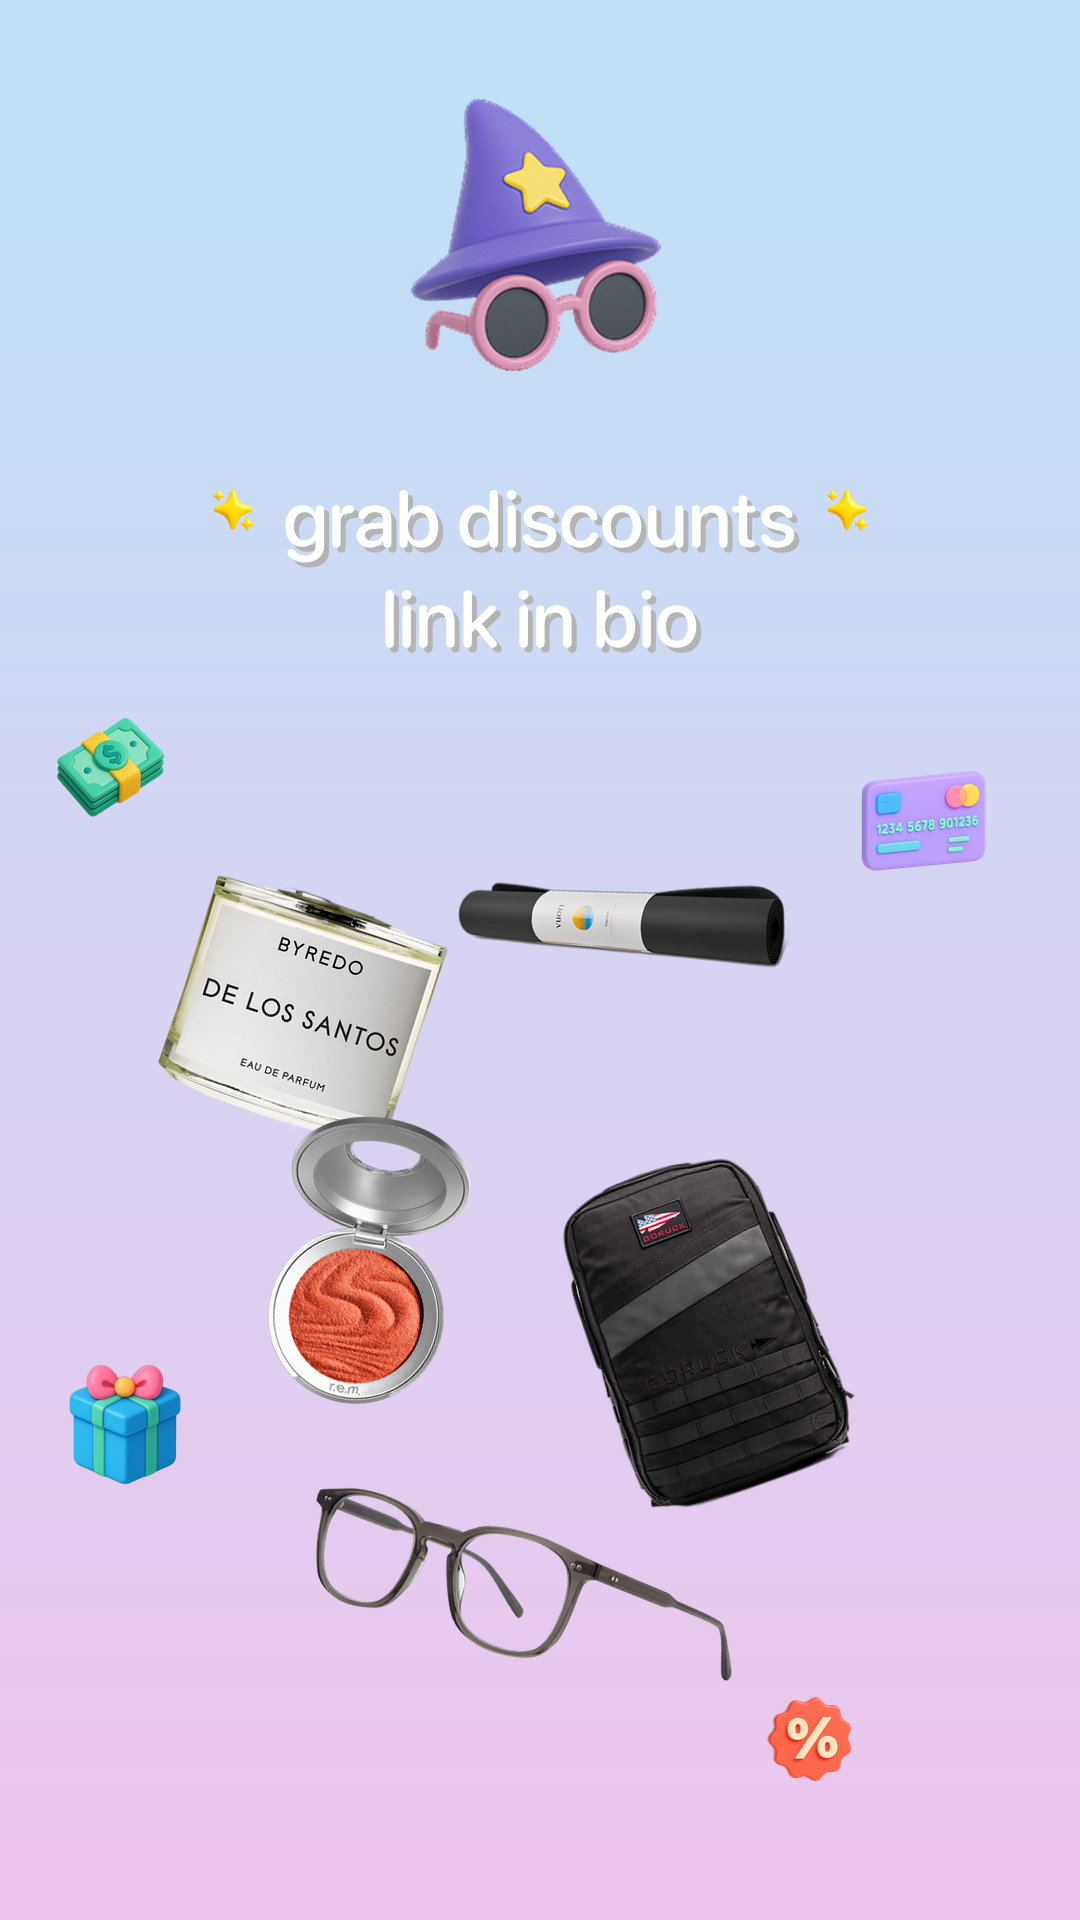
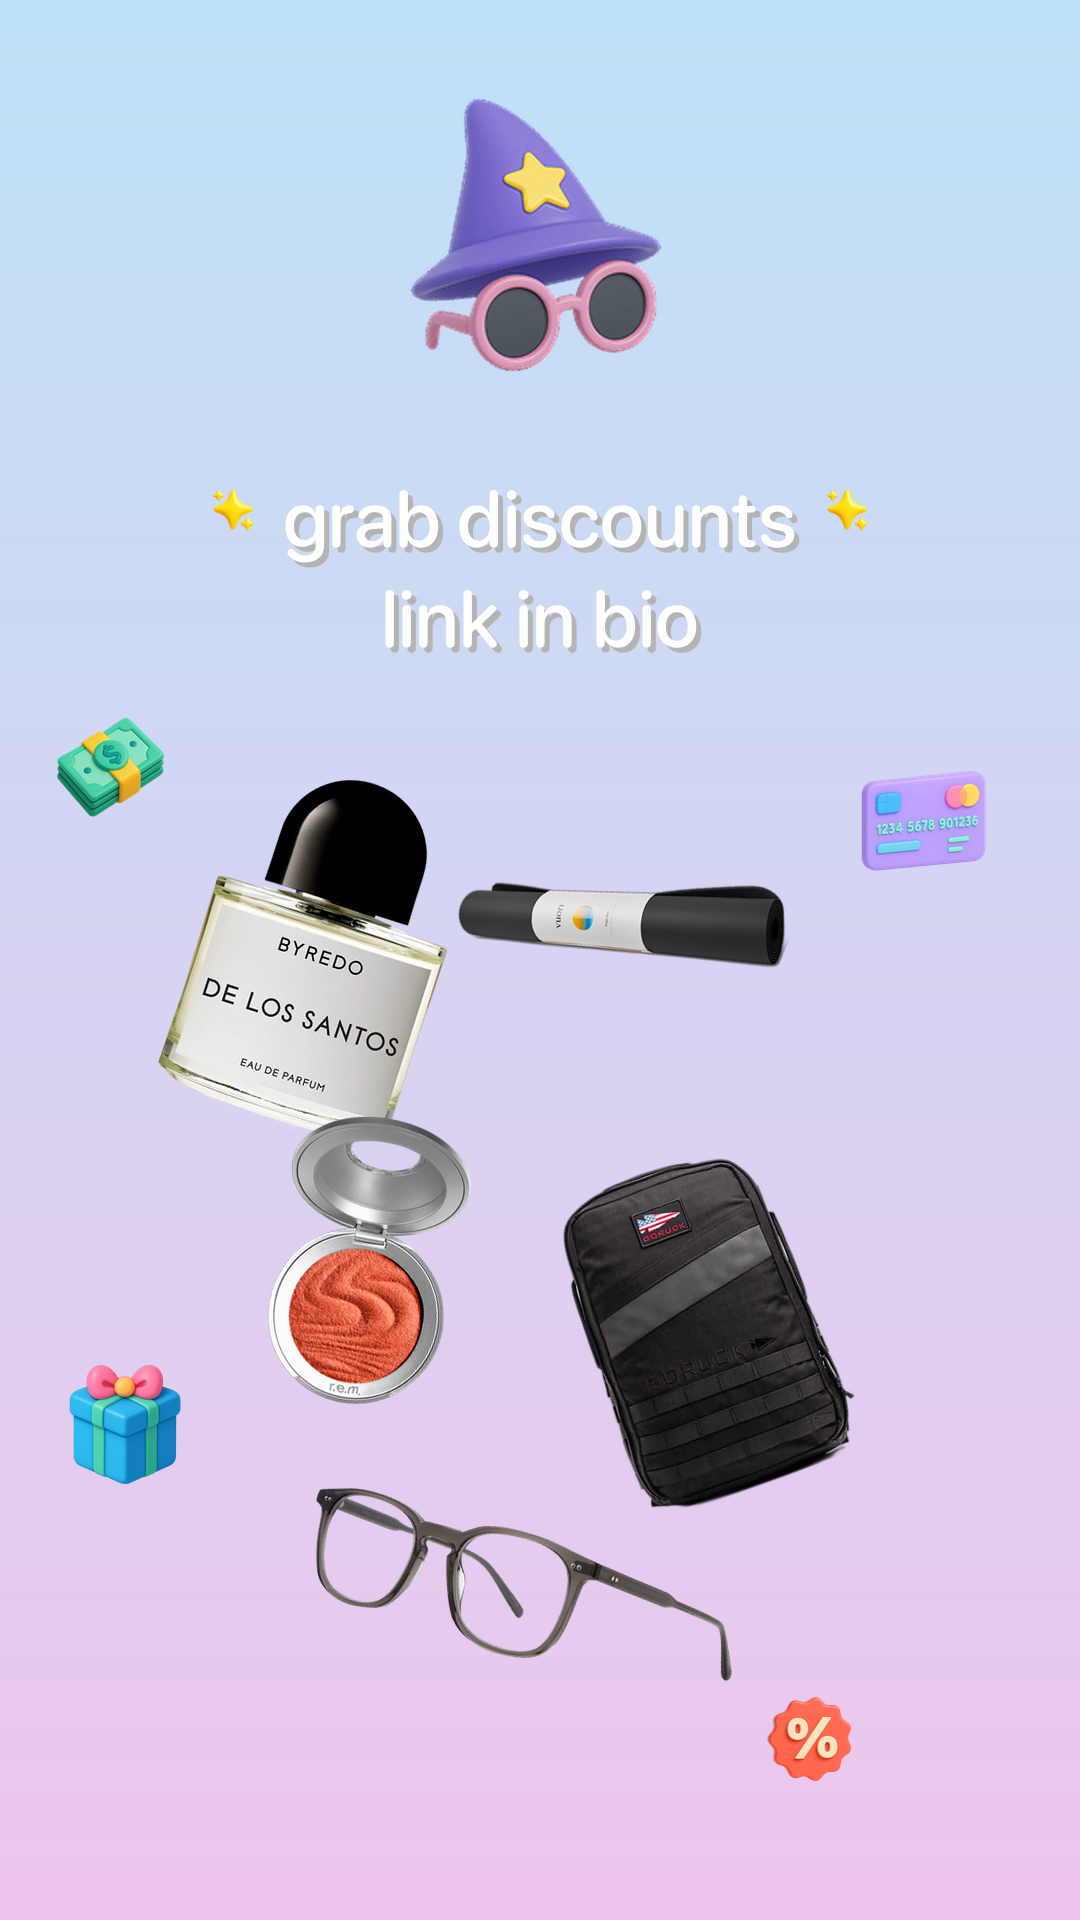
Fix: Remove background removal from Byredo and Garrett Leight in cover/end pages
- Removed remove_background() calls for Byredo in both generators
- Removed remove_background() calls for Garrett Leight in both generators
- Images now use original quality without cropping
- Regenerated cover_page.png and end_page.png with full images

🤖 Generated with [Claude Code](https://claude.com/claude-code)

Changed region(s): [[0.2444, 0.4062, 0.3972, 0.5]]

diff --git a/generate_cover_page.py b/generate_cover_page.py
@@ -216,20 +216,18 @@ def create_cover_page(deals, font_path):
                 except:
                     image_url = image_urls[0]
             elif brand == 'Byredo':
-                # Use local high-quality image
+                # Use local high-quality image (already has proper background)
                 try:
                     product_img = Image.open('generated_images/2025-10-28/byredo.png')
-                    product_img = remove_background(product_img)
                     product_images.append(product_img)
                     print(f"    Processed product {i+1}/{min(7, len(deals))}")
                     continue
                 except:
                     image_url = image_urls[0]
             elif brand == 'Garrett Leight':
-                # Use local high-quality image
+                # Use local high-quality image (already has proper background)
                 try:
                     product_img = Image.open('generated_images/2025-10-28/garretlight.png')
-                    product_img = remove_background(product_img)
                     product_images.append(product_img)
                     print(f"    Processed product {i+1}/{min(7, len(deals))}")
                     continue

diff --git a/generate_end_page.py b/generate_end_page.py
@@ -229,20 +229,18 @@ def create_end_page(deals, font_path):
                 except:
                     image_url = image_urls[0]
             elif brand == 'Byredo':
-                # Use local high-quality image
+                # Use local high-quality image (already has proper background)
                 try:
                     product_img = Image.open('generated_images/2025-10-28/byredo.png')
-                    product_img = remove_background(product_img)
                     product_images.append(product_img)
                     print(f"    Processed product {i+1}/{min(5, len(deals))}")
                     continue
                 except:
                     image_url = image_urls[0]
             elif brand == 'Garrett Leight':
-                # Use local high-quality image
+                # Use local high-quality image (already has proper background)
                 try:
                     product_img = Image.open('generated_images/2025-10-28/garretlight.png')
-                    product_img = remove_background(product_img)
                     product_images.append(product_img)
                     print(f"    Processed product {i+1}/{min(5, len(deals))}")
                     continue
